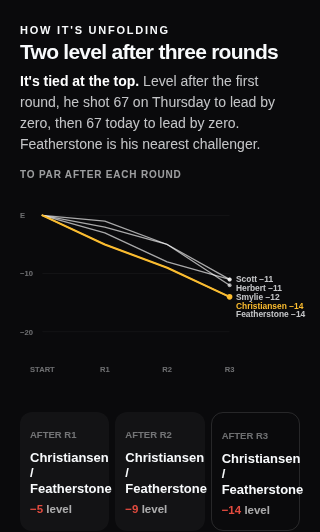
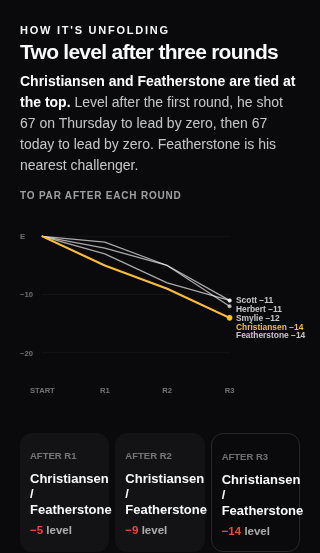
Updated report pass rate

diff --git a/src/features/tourhub/tournament-v2/sections/TournamentV3Sections.tsx b/src/features/tourhub/tournament-v2/sections/TournamentV3Sections.tsx
@@ -3,7 +3,7 @@
 import {useState, type RefObject} from 'react';
 import { TournamentSectionHead } from './TournamentSectionHead';
 import { MeasuredTournamentHead } from './MeasuredTournamentHead';
-import { unfoldingTitle, unfoldingNarrative, unfoldingFallbackTitle, unfoldingHeadForm, fieldTitle, fieldStrength, hardestTitle, playedCourseLine, numbersTitle } from '../data/tournamentHeadRules';
+import { unfoldingTitle, unfoldingNarrative, unfoldingFallbackOpening, unfoldingFallbackTitle, unfoldingHeadForm, fieldTitle, fieldStrength, hardestTitle, playedCourseLine, numbersTitle } from '../data/tournamentHeadRules';
 import { courseLeadTitle, par5Sentence, teeTimesTitle } from '../../components/overview-v3/heroHeadRules';
 import {CourseGlance} from './CourseGlance';
 import {useTranslation} from 'react-i18next';
@@ -36,7 +36,7 @@ export function SectionHead({title,aside,action,onAction}:{title:string;aside?:s
 export function TournamentHero({meta,phase,rows,field,last,holes,image,nameRef,firstTee=null,drawnField=null,wonAt=null}:{nameRef?:RefObject<HTMLHeadingElement>;meta:TournamentMeta;phase:Phase;rows:BoardEntry[];field:PickFieldPlayer[];last:LastYearFinisher[];holes:CourseHole[];image:string|null;firstTee?:string|null;drawnField?:number|null;wonAt?:number|null}){const{t}=useTranslation('tourhub');const facts=glanceFacts(holes);
 if(phase==='upcoming'){const zone=eventZone(meta);const startForm=heroStartDayForm(meta);const upcomingField=field.map(p=>({id:p.player_id,name:p.full_name,worldRank:p.world_rank}));return <div data-tv-section="hero"><PhotoBand title={meta.name} venueName={meta.venue_name??null} datesString={meta.start_date?formatOverviewDateRange(meta.start_date,meta.end_date):null} venueImageUrl={image} state={{kind:'upcoming',variant:'far',countdown:'',meta:''}} tourLabel={meta.tour_full_name??meta.tour_code?.toUpperCase()??null} leader={null} countdown={meta.start_date?getOverviewCountdown(meta.start_date):[]} startDay={startForm.text||null} titleRef={nameRef} segments={upcomingSentence(last,upcomingField,firstTee,zone)}/><UpcomingFacts first={firstTee} zone={zone} field={drawnField??field.length} purse={meta.purse??null} par={facts?.par??meta.venue_par??null} yards={facts?.yards??meta.venue_yardage??null} startDayNamed={startForm.weekday} par5s={upcomingPar5Count(holes)} wonAt={wonAt}/></div>;}
 const sentence=heroSentence(meta,phase,rows,field,last);const stateLine=heroStateLine(t,phase==='completed'?{kind:'results'}:meta.current_round_status==='suspended'?{kind:'suspended',round:meta.current_round??1}:{kind:'live',round:meta.current_round??1});const figures=[field.length?{label:'FIELD',value:String(field.length)}:null,meta.purse!=null?{label:'PURSE',value:`$${meta.purse>=1000000?`${Number((meta.purse/1000000).toFixed(1))}M`:meta.purse.toLocaleString('en-GB')}`}:null,(facts?.par??meta.venue_par)!=null?{label:'PAR',value:String(facts?.par??meta.venue_par)}:null,(facts?.yards??meta.venue_yardage)!=null?{label:'YARDS',value:(facts?.yards??meta.venue_yardage??0).toLocaleString('en-GB')}:null].filter((f):f is {label:string;value:string}=>f!=null);return <div data-tv-section="hero"><div className="tv-hero" style={{paddingTop:HERO_CONTENT_TOP,paddingBottom:HERO_CONTENT_BOTTOM}}>{image&&<img src={image} alt=""/>}<PhotoBandFade/><div className="tv-hero-in"><div className="tv-tour">{[meta.tour_full_name?.toUpperCase()??meta.tour_code?.toUpperCase(),stateLine].filter(Boolean).join(' · ')}</div><h1 ref={nameRef} className="tv-title">{meta.name}</h1><div className="tv-venue">{venueLine(meta)}</div>{sentence.length>0&&<p className="tv-hero-sentence"><Parts parts={sentence}/></p>}</div></div>{figures.length>0&&<div className="tv-figures">{figures.map(f=><div key={f.label}><b>{f.value}</b><span>{f.label}</span></div>)}</div>}</div>;}
-export function RaceSection({meta,phase,rows}:{meta:TournamentMeta;phase:Phase;rows:BoardEntry[]}){const {t}=useTranslation('tourhub');const lines=chartLines(rows,phase,meta.winner_id),n=playedRounds(rows),narrative=raceNarrative(meta,phase,rows);if(!lines.length||n<1)return null;const lo=Math.min(-20,...lines.flatMap(l=>l.values)),max=Math.ceil(Math.abs(lo)/10)*10+2,x=(i:number)=>28+i*234/n,y=(v:number)=>8+Math.abs(v)/max*160;const ys=labelPositions(lines.map(l=>y(l.values[n]??0)+3.5));return <section className="tv-section" data-tv-section="race"><MeasuredTournamentHead eyebrow={copy(phase==='completed'?'wasWon':'unfolding')} title={unfoldingTitle(t,rows)} fallbackTitle={unfoldingFallbackTitle(t,rows)} chooseFallback={unfoldingHeadForm}>{fallback=>narrative.length>0?<p className="tv-lead"><Parts parts={unfoldingNarrative(narrative,phase,fallback)}/></p>:null}</MeasuredTournamentHead><div className="tv-chart-axis" data-tv-chart-axis>{copy('chartAxis')}</div><svg viewBox="0 0 350 210" className="tv-chart" role="img" aria-label={copy(phase==='completed'?'wasWon':'unfolding')}>{Array.from({length:Math.floor(max/10)+1},(_,i)=>-i*10).map(v=><g key={v}><line className="tv-grid" x1="28" x2="262" y1={y(v)} y2={y(v)}/><text x="0" y={y(v)+3.5}>{score(v)}</text></g>)}{Array.from({length:n+1},(_,i)=><text key={i} x={x(i)} y="204" textAnchor="middle">{i===0?'START':`R${i}`}</text>)}{[...lines].sort((a,b)=>Number(a.winner)-Number(b.winner)).map(l=><g key={l.row.id}><polyline className={`tv-line ${l.winner?'tv-winner':l.faint?'tv-faint':''}`} strokeLinejoin="round" strokeLinecap="round" points={l.values.map((v,i)=>`${x(i)},${y(v)}`).join(' ')}/><circle className={`tv-dot ${l.winner?'tv-dot-winner':l.faint?'tv-dot-faint':''}`} cx={x(n)} cy={y(l.values[n]??0)} r={l.winner?3.5:2.5}/></g>)}{lines.map((l,i)=><text key={l.row.id} data-chart-label data-score={l.values[n]} className={`tv-label ${l.winner?'tv-label-winner':''}`} x="270" y={ys[i]}>{surnameOf(l.row.player?.full_name??'')} {score(l.values[n]??0)}</text>)}</svg><div className="tv-lead-tiles" style={{gridTemplateColumns:`repeat(${n},minmax(0,1fr))`}}>{Array.from({length:n},(_,i)=>{const s=roundStanding(rows,i+1),lead=s[0];if(!lead)return null;const leaders=s.filter(r=>r.rank===1),next=s.find(r=>r.rank>1);return <div className="tv-lead-tile" key={i} data-round-lead={i+1}><small>{copy('afterR',{n:i+1})}</small><b>{leaders.map(r=>surnameOf(r.row.player?.full_name??'')).join(' / ')}</b><span><strong className={lead.total<0?'tv-under':''}>{score(lead.total)}</strong> {leaders.length>1?copy('level'):next?copy('leadScore',{n:next.total-lead.total}):''}</span></div>;})}</div></section>;}
+export function RaceSection({meta,phase,rows}:{meta:TournamentMeta;phase:Phase;rows:BoardEntry[]}){const {t}=useTranslation('tourhub');const lines=chartLines(rows,phase,meta.winner_id),n=playedRounds(rows),narrative=raceNarrative(meta,phase,rows);if(!lines.length||n<1)return null;const lo=Math.min(-20,...lines.flatMap(l=>l.values)),max=Math.ceil(Math.abs(lo)/10)*10+2,x=(i:number)=>28+i*234/n,y=(v:number)=>8+Math.abs(v)/max*160;const ys=labelPositions(lines.map(l=>y(l.values[n]??0)+3.5));return <section className="tv-section" data-tv-section="race"><MeasuredTournamentHead eyebrow={copy(phase==='completed'?'wasWon':'unfolding')} title={unfoldingTitle(t,rows)} fallbackTitle={unfoldingFallbackTitle(t,rows)} chooseFallback={unfoldingHeadForm}>{fallback=>narrative.length>0?<p className="tv-lead"><Parts parts={unfoldingNarrative(narrative,phase,fallback,unfoldingFallbackOpening(t,rows))}/></p>:null}</MeasuredTournamentHead><div className="tv-chart-axis" data-tv-chart-axis>{copy('chartAxis')}</div><svg viewBox="0 0 350 210" className="tv-chart" role="img" aria-label={copy(phase==='completed'?'wasWon':'unfolding')}>{Array.from({length:Math.floor(max/10)+1},(_,i)=>-i*10).map(v=><g key={v}><line className="tv-grid" x1="28" x2="262" y1={y(v)} y2={y(v)}/><text x="0" y={y(v)+3.5}>{score(v)}</text></g>)}{Array.from({length:n+1},(_,i)=><text key={i} x={x(i)} y="204" textAnchor="middle">{i===0?'START':`R${i}`}</text>)}{[...lines].sort((a,b)=>Number(a.winner)-Number(b.winner)).map(l=><g key={l.row.id}><polyline className={`tv-line ${l.winner?'tv-winner':l.faint?'tv-faint':''}`} strokeLinejoin="round" strokeLinecap="round" points={l.values.map((v,i)=>`${x(i)},${y(v)}`).join(' ')}/><circle className={`tv-dot ${l.winner?'tv-dot-winner':l.faint?'tv-dot-faint':''}`} cx={x(n)} cy={y(l.values[n]??0)} r={l.winner?3.5:2.5}/></g>)}{lines.map((l,i)=><text key={l.row.id} data-chart-label data-score={l.values[n]} className={`tv-label ${l.winner?'tv-label-winner':''}`} x="270" y={ys[i]}>{surnameOf(l.row.player?.full_name??'')} {score(l.values[n]??0)}</text>)}</svg><div className="tv-lead-tiles" style={{gridTemplateColumns:`repeat(${n},minmax(0,1fr))`}}>{Array.from({length:n},(_,i)=>{const s=roundStanding(rows,i+1),lead=s[0];if(!lead)return null;const leaders=s.filter(r=>r.rank===1),next=s.find(r=>r.rank>1);return <div className="tv-lead-tile" key={i} data-round-lead={i+1}><small>{copy('afterR',{n:i+1})}</small><b>{leaders.map(r=>surnameOf(r.row.player?.full_name??'')).join(' / ')}</b><span><strong className={lead.total<0?'tv-under':''}>{score(lead.total)}</strong> {leaders.length>1?copy('level'):next?copy('leadScore',{n:next.total-lead.total}):''}</span></div>;})}</div></section>;}
 export function FieldSection({field,tour}:{field:PickFieldPlayer[];tour:string}){const {t}=useTranslation('tourhub');const [open,setOpen]=useState(false);const strength=fieldStrength(fieldLead(field));if(!field.length)return null;const sorted=[...field].filter(p=>p.full_name).sort((a,b)=>(a.world_rank??Infinity)-(b.world_rank??Infinity));return <section className="tv-section" data-tv-section="field"><TournamentSectionHead eyebrow={copy('field')} title={fieldTitle(t,field)}/>{strength.length>0&&<p className="tv-lead"><Parts parts={strength}/></p>}<div className="tv-tiles">{sorted.slice(0,6).map(p=><div className="tv-tile tv-field-tile" key={p.player_id}><PlayerAvatar playerId={p.player_id} playerName={p.full_name} photoUrl={p.photo_url} headshotOverride={p.headshot_override} tourCode={tour} size={30}/><div style={{minWidth:0}}><b>{surnameOf(p.full_name)}</b>{p.world_rank!=null&&<small>{copy('rank',{n:p.world_rank})}</small>}</div></div>)}</div><Button variant="ghost" className="tv-link" onClick={()=>setOpen(true)}>{copy('allPlayers',{n:field.length})}</Button><BottomSheet open={open} onClose={()=>setOpen(false)} ariaLabelledBy="tv-field-title"><div className="tournament-v3 tv-field-list"><span className="tv-field-eyebrow">{copy('field')}</span><h2 id="tv-field-title">{sorted.length===1?copy('fieldSheetTitleOne'):copy('fieldSheetTitle',{count:sorted.length<10?cap(words(sorted.length)):sorted.length})}</h2>{sorted.map(p=><div className="tv-last-row" key={p.player_id}><PlayerAvatar playerId={p.player_id} playerName={p.full_name} photoUrl={p.photo_url} tourCode={tour} size={30}/><span>{p.full_name}</span>{p.world_rank!=null&&<b>{copy('rank',{n:p.world_rank})}</b>}</div>)}</div></BottomSheet></section>;}
 export function LastYearSection({last,field,tour}:{last:LastYearFinisher[];field:PickFieldPlayer[];tour:string}){const rows=last.filter(p=>p.name&&p.name!=='—');if(!rows.length)return null;const winner=rows.find(p=>p.rank==='1')??rows[0],playoff=rows[1]?.score===winner?.score;return <section className="tv-section" data-tv-section="last-year"><SectionHead title={copy('lastYear')} aside={rows[0]?.year}/>{rows.map((p,i)=><div className="tv-last-row" key={`${p.name}-${i}`}><span className={p===winner?'tv-gold':''}>{p.rank}</span><div className="tv-last-who"><PlayerAvatar playerId={p.name} playerName={p.name} photoUrl={p.photoUrl} tourCode={tour} size={24}/><span>{p.name}</span>{p===winner&&playoff&&<small>{copy('wonInPlayoff')}</small>}</div><b className={p.score.startsWith('−')||p.score.startsWith('-')?'tv-under':''}>{p.score}</b></div>)}{field.length>0&&<p className="tv-caption">{backThisYear(rows,field)}</p>}</section>;}
 function Split({shares}:{shares:number[]}){return <div className="tv-split">{shares.map((v,i)=><i key={i} style={{width:`${v}%`}}/>)}</div>;}

diff --git a/src/test/tournamentHeadRules.test.ts b/src/test/tournamentHeadRules.test.ts
@@ -2,7 +2,7 @@
 import {describe,it,expect} from 'vitest';
 import i18next from 'i18next';
 import en from '@/locales/en/tourhub.json';
-import {boardTitle,unfoldingTitle,unfoldingNarrative,numbersTitle,hardestTitle,playedCourseLine,fieldTitle,fieldStrength,momentsTitle,roundInPlay,notableKinds,boardHeadForm,unfoldingHeadForm,momentsRecordHeadForm,momentsPlainHeadForm,sharedLeadPair,unfoldingFallbackTitle} from '@/features/tourhub/tournament-v2/data/tournamentHeadRules';
+import {boardTitle,unfoldingTitle,unfoldingNarrative,unfoldingFallbackOpening,numbersTitle,hardestTitle,playedCourseLine,fieldTitle,fieldStrength,momentsTitle,roundInPlay,notableKinds,boardHeadForm,unfoldingHeadForm,momentsRecordHeadForm,momentsPlainHeadForm,sharedLeadPair,unfoldingFallbackTitle} from '@/features/tourhub/tournament-v2/data/tournamentHeadRules';
 import {leaderboardTitle,runnerUpTitle,livePicksTitle,livePicksEyebrow,picksEyebrowState,upcomingPicksTitle,teeTimesTitle,courseLeadTitle,par5Sentence} from '@/features/tourhub/components/overview-v3/heroHeadRules';
 import type {BoardEntry} from '@/features/tourhub/leaderboard/BoardTable';
 import type {TournamentMeta} from '@/features/tourhub/leaderboard/useTournamentMeta';
@@ -78,7 +78,9 @@ describe('Ben continuation: measured fallback choices',()=>{
  }
  it('only a two-player shared live lead qualifies',()=>{expect(sharedLeadPair([row('A',[-4]),row('B',[-4])])).toBe(true);expect(sharedLeadPair([row('A',[-4]),row('B',[-4]),row('C',[-4])])).toBe(false);});
  it('two round-leaders get the specified short title',()=>expect(unfoldingFallbackTitle(t,[row('Christiansen',[-5,-4,-5]),row('Featherstone',[-5,-4,-5])])).toBe('Two level after three rounds'));
- it('fallback retains the opening bold narrative',()=>expect(unfoldingNarrative([{bold:true,text:'Christiansen and Featherstone are level.'},{text:' More.'}],'live',true)).toEqual([{bold:true,text:'Christiansen and Featherstone are level.'},{text:' More.'}]));
+ it('fallback retains the opening bold narrative',()=>expect(unfoldingNarrative([{bold:true,text:"It's tied at the top."},{text:' More.'}],'live',true,unfoldingFallbackOpening(t,[row('Christiansen',[-5,-4,-5]),row('Featherstone',[-5,-4,-5])]))).toEqual([{bold:true,text:'Christiansen and Featherstone are tied at the top.'},{text:' More.'}]));
+ it('full title keeps dropping the opener even with a named candidate',()=>expect(unfoldingNarrative([{bold:true,text:"It's tied at the top."},{text:' More.'}],'live',false,'Christiansen and Featherstone are tied at the top.')).toEqual([{text:'More.'}]));
+ it('three leaders leave the original opening unchanged',()=>{const rows=['Christiansen','Featherstone','Lee'].map(name=>row(name,[-5,-4,-5]));const opening=unfoldingFallbackOpening(t,rows);expect(opening).toBeUndefined();expect(unfoldingNarrative([{bold:true,text:"It's tied at the top."},{text:' More.'}],'live',true,opening)).toEqual([{bold:true,text:"It's tied at the top."},{text:' More.'}]);});
  it('mixed course records shorten to records',()=>expect(momentsTitle(t,moments(['record','record','highlight','highlight','highlight','highlight','highlight']),'live','records')).toBe('Seven moments, two records'));
  it('one course record shortens to one record',()=>expect(momentsTitle(t,moments(['record','highlight']),'completed','records')).toBe('Two moments, one record'));
  it('last fallback is the plain total and phase suffix',()=>expect(momentsTitle(t,moments(['record','record','highlight']),'completed','plain')).toBe('Three moments this week'));

diff --git a/src/test/tournamentMeasuredFallbacks.test.tsx b/src/test/tournamentMeasuredFallbacks.test.tsx
@@ -12,7 +12,7 @@ describe('measured tournament-only fallback rendering',()=>{
  it('three-line shared lead becomes Two share the lead without a line beneath',()=>{measurement.full=3;const {container}=render(<MeasuredTournamentHead eyebrow="LEADERBOARD" title="Christiansen and Featherstone share the lead" fallbackTitle="Two share the lead" chooseFallback={boardHeadForm} action="Full board" onAction={()=>{}}/>);expect(title(container)).toBe('Two share the lead');expect(container.querySelector('p')).toBeNull();});
  it('two-line shared lead keeps names',()=>{measurement.full=2;const {container}=render(<MeasuredTournamentHead eyebrow="LEADERBOARD" title="Christiansen and Featherstone share the lead" fallbackTitle="Two share the lead" chooseFallback={boardHeadForm}/>);expect(title(container)).toBe('Christiansen and Featherstone share the lead');});
  it('new full title rechecks instead of measuring the previous short title',()=>{measurement.full=3;const props={eyebrow:'LEADERBOARD',fallbackTitle:'Two share the lead',chooseFallback:boardHeadForm};const {container,rerender}=render(<MeasuredTournamentHead {...props} title="Christiansen and Featherstone share the lead"/>);expect(title(container)).toBe('Two share the lead');measurement.full=1;rerender(<MeasuredTournamentHead {...props} title="Lee and Smith share the lead"/>);expect(title(container)).toBe('Lee and Smith share the lead');});
- it('unfolding fallback keeps the opening narrative',()=>{measurement.full=3;const {container}=render(<MeasuredTournamentHead eyebrow="HOW IT'S UNFOLDING" title="Christiansen and Featherstone level after three rounds" fallbackTitle="Two level after three rounds" chooseFallback={unfoldingHeadForm}>{fallback=>fallback?<p><b>Christiansen and Featherstone are level.</b></p>:null}</MeasuredTournamentHead>);expect(title(container)).toBe('Two level after three rounds');expect(container.querySelector('p b')?.textContent).toBe('Christiansen and Featherstone are level.');});
+ it('unfolding fallback keeps the opening narrative',()=>{measurement.full=3;const {container}=render(<MeasuredTournamentHead eyebrow="HOW IT'S UNFOLDING" title="Christiansen and Featherstone level after three rounds" fallbackTitle="Two level after three rounds" chooseFallback={unfoldingHeadForm}>{fallback=>fallback?<p><b>Christiansen and Featherstone are tied at the top.</b></p>:null}</MeasuredTournamentHead>);expect(title(container)).toBe('Two level after three rounds');expect(container.querySelector('p b')?.textContent).toBe('Christiansen and Featherstone are tied at the top.');});
  it('records candidate stays when it fits two lines',()=>{measurement.full=3;measurement.short=2;const {container}=render(<MeasuredTournamentHead eyebrow="MOMENTS" title="Seven moments, two course records" fallbackTitle="Seven moments, two records" finalTitle="Seven moments so far" chooseFallback={momentsRecordHeadForm} chooseFinal={momentsPlainHeadForm}/>);expect(title(container)).toBe('Seven moments, two records');});
  it('records candidate over two lines becomes plain total',()=>{measurement.full=3;measurement.short=3;const {container}=render(<MeasuredTournamentHead eyebrow="MOMENTS" title="Seven moments, two course records" fallbackTitle="Seven moments, two records" finalTitle="Seven moments this week" chooseFallback={momentsRecordHeadForm} chooseFinal={momentsPlainHeadForm}/>);expect(title(container)).toBe('Seven moments this week');});
 });

diff --git a/src/features/tourhub/tournament-v2/data/tournamentHeadRules.ts b/src/features/tourhub/tournament-v2/data/tournamentHeadRules.ts
@@ -40,9 +40,16 @@ export function unfoldingTitle(t: T, rows: BoardEntry[]): string {
   while (start > 0 && sole(start - 1)) start--;
   return start === n - 1 ? t(key('race.firstLead'), { name }) : t(key('race.since'), { name, round: midWord(start + 1,t) });
 }
-export function unfoldingNarrative(parts: Part[], phase: Phase, keepOpening = false): Part[] {
+/** Only the measured two-leader fallback replaces the opener; title and
+ * narrative names use the same authoritative round-standing order. */
+export function unfoldingFallbackOpening(t: T, rows: BoardEntry[]): string | undefined {
+  const leaders = roundStanding(rows, playedRounds(rows)).filter(r => r.rank === 1);
+  if (leaders.length !== 2) return undefined;
+  return t(key('race.tiedTopNames'), { a: surnameOf(leaders[0].row.player?.full_name ?? ''), b: surnameOf(leaders[1].row.player?.full_name ?? '') });
+}
+export function unfoldingNarrative(parts: Part[], phase: Phase, keepOpening = false, namedOpening?: string): Part[] {
   const rest = phase === 'live' && parts[0]?.bold && !keepOpening ? parts.slice(1) : parts;
-  return rest.map((p,i) => i === 0 ? { ...p, text: p.text.trimStart() } : p);
+  return rest.map((p,i) => i === 0 ? { ...p, text: phase === 'live' && keepOpening && p.bold && namedOpening ? namedOpening : p.text.trimStart() } : p);
 }
 export function numbersTitle(t: T, meta: TournamentMeta, phase: Phase, rows: BoardEntry[]): string {
   const round = meta.current_round ?? playedRounds(rows);

diff --git a/src/test/tourSheetHeadingCanon.test.tsx b/src/test/tourSheetHeadingCanon.test.tsx
@@ -76,9 +76,10 @@ describe('Tour hub sheet heading canon', () => {
     if (!open) throw new Error('Missing full-field opener');
     fireEvent.click(open);
     expectTitle(requireElement('#tv-field-title'));
-    const page = container.querySelector<HTMLElement>('.tv-head h2');
-    if (!page) throw new Error('Missing page field kicker');
+    const page = container.querySelector<HTMLElement>('[data-tv-section="field"] [data-tv-head-eyebrow]');
+    if (!page) throw new Error('Missing page field eyebrow');
     expect(getComputedStyle(page).fontSize).toBe('11px');
+    expect(page.textContent).toBe('THE FIELD');
   });
   it('Full field sheet titles the sorted count under a THE FIELD eyebrow at 11px / 0.16em', () => {
     const player = (id: string, rank: number) => ({ player_id: id, full_name: `Player ${id}`, country: null, world_rank: rank, photo_url: null, headshot_override: null });

diff --git a/roadmap.md b/roadmap.md
@@ -1,6 +1,7 @@
 # Roadmap
 
 ## Held verification: Brief 17 tournament section heads
+- Finish Ben's continuation: authorised field-eyebrow assertion only; named two-leader opening only in unfolding fallback; retake long-pair 320/390 captures, run four sequential shards, then close the report stops.
 - Canonical tournament heads and measured shared-lead/unfolding/Moments fallbacks implemented; overview board unchanged. Final 320/390 seeded captures have no overflow or titles above two lines; fixtures removed.
 - Moments remains hidden at zero; its two newly introduced empty-state cases and captures removed by Ben's ruling; emptyShort/emptyBody unchanged.
 - Baseline 10,316 /896; expected final 10,432 /899 (+116 cases /three files). Continuation tests remain unexecuted under the stop rule; full inventory collection timed out.
